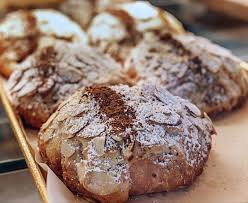
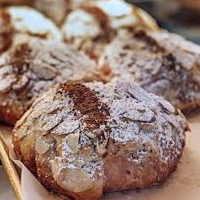
update image ratios

diff --git a/views/menu.html b/views/menu.html
@@ -73,7 +73,7 @@
                     <button type="button" class="btn btn-danger">+</button>
                 </div>
                 <div class="col-md-3">
-                    <img class="menu-item" alt="blueberry muffin" src="images/blueberry_muffin.jpeg"/>
+                    <img class="menu-item" alt="blueberry muffin" src="images/blueberry_muffin.png"/>
                     <h5>Blueberry Muffin</h5>
                     <button type="button" class="btn btn-danger">+</button>
                 </div>
@@ -98,22 +98,22 @@
             <h4>Donut</h4>
             <div class="row">
                 <div class="col-md-3">
-                    <img class="menu-item" alt="cinnamon sugar donut" src="images/cin_donut.jpeg"/>
+                    <img class="menu-item" alt="cinnamon sugar donut" src="images/cin_donut.png"/>
                     <h5>Cinnamon Sugar</h5>
                     <button type="button" class="btn btn-danger">+</button>
                 </div>
                 <div class="col-md-3">
-                    <img class="menu-item" alt="mochi donut" src="images/mochi_donut.jpeg"/>
+                    <img class="menu-item" alt="mochi donut" src="images/mochi_donut.png"/>
                     <h5>Mochi Donut</h5>
                     <button type="button" class="btn btn-danger">+</button>
                 </div>
                 <div class="col-md-3">
-                    <img class="menu-item" alt="chocolate sprinkle donut" src="images/choc_sprink_donut.jpeg"/>
+                    <img class="menu-item" alt="chocolate sprinkle donut" src="images/choc_sprink_donut.png"/>
                     <h5>Chocolate Sprinkle</h5>
                     <button type="button" class="btn btn-danger">+</button>
                 </div>
                 <div class="col-md-3">
-                    <img class="menu-item" alt="coconut cream donut" src="images/coconut_donut.jpeg"/>
+                    <img class="menu-item" alt="coconut cream donut" src="images/coconut_donut.png"/>
                     <h5>Coconut Cream Donut</h5>
                     <button type="button" class="btn btn-danger">+</button>
                 </div>
@@ -128,7 +128,7 @@
             <h4>Sandwiches</h4>
             <div class="row">
                 <div class="col-md-3">
-                    <img class="menu-item" alt="katsu sandwich" src="images/katsu_sandwich.jpeg"/>
+                    <img class="menu-item" alt="katsu sandwich" src="images/katsu_sandwich.png"/>
                     <h5>Katsu</h5>
                     <button type="button" class="btn btn-danger">+</button>
                 </div>
@@ -138,7 +138,7 @@
                     <button type="button" class="btn btn-danger">+</button>
                 </div>
                 <div class="col-md-3">
-                    <img class="menu-item" alt="potato sandwich" src="images/potato_sandwich.jpeg"/>
+                    <img class="menu-item" alt="potato sandwich" src="images/potato_sandwich.png"/>
                     <h5>Potato</h5>
                     <button type="button" class="btn btn-danger">+</button>
                 </div>
@@ -158,17 +158,17 @@
             <h4>Specialty Items</h4>
             <div class="row">
                 <div class="col-md-3">
-                    <img class="menu-item" alt="tiramisu" src="images/tiramisu.jpeg"/>
+                    <img class="menu-item" alt="tiramisu" src="images/tiramisu.png"/>
                     <h5>Tiramisu</h5>
                     <button type="button" class="btn btn-danger">+</button>
                 </div>
                 <div class="col-md-3">
-                    <img class="menu-item" alt="tart" src="images/tart_rasp.jpeg"/>
+                    <img class="menu-item" alt="tart" src="images/tart_rasp.png"/>
                     <h5>Tart</h5>
                     <button type="button" class="btn btn-danger">+</button>
                 </div>
                 <div class="col-md-3">
-                    <img class="menu-item" alt="butter mochi" src="images/butter_mochi.jpeg"/>
+                    <img class="menu-item" alt="butter mochi" src="images/butter_mochi.png"/>
                     <h5>Butter Mochi</h5>
                     <button type="button" class="btn btn-danger">+</button>
                 </div>
